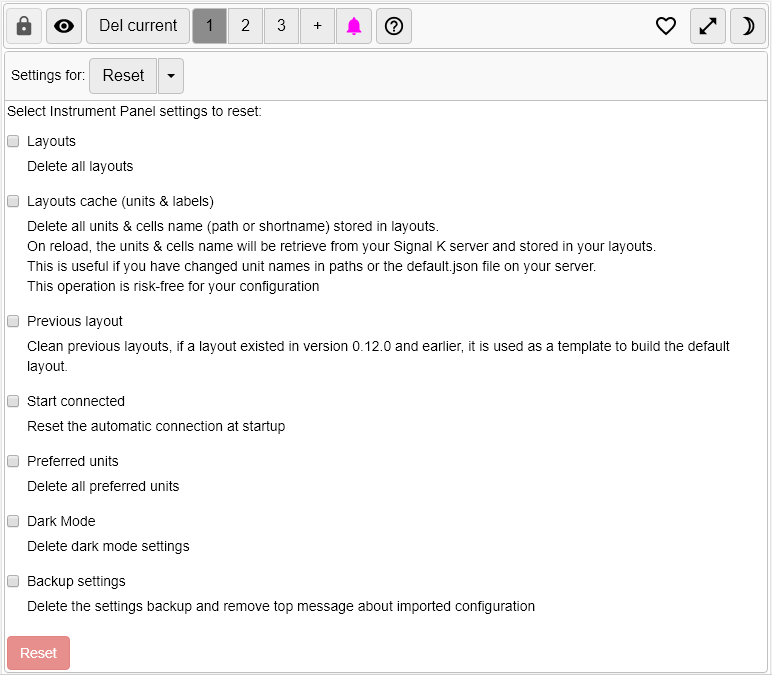
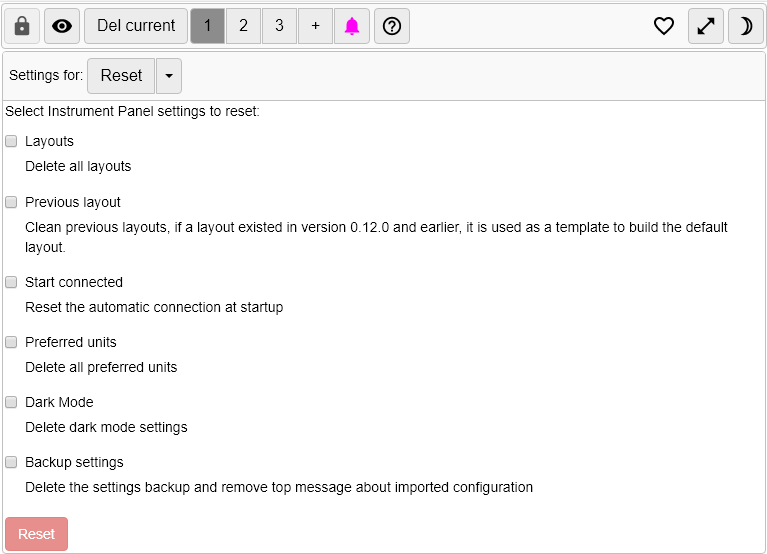
chore: remove meta cache feature

Changed region(s): [[0.0, 0.0, 1.0, 1.0]]

diff --git a/lib/ui/widgets/universal.js b/lib/ui/widgets/universal.js
@@ -17,7 +17,6 @@ class ZoneModeSettings extends React.Component {
     super(props);
     this.state = {
       zoneMode: props.props.options.zoneMode || 'local',
-      metaReload: props.props.options.metaReload || false,
       statesColor: (
         typeof props.props.options.statesColor === 'object' &&
         props.props.options.statesColor !== null
@@ -45,15 +44,9 @@ class ZoneModeSettings extends React.Component {
 
   handleInputChange(event) {
     var eventID = event.target.id;
-    if (eventID === 'metaReload') {
-      this.setState({
-        metaReload: event.target.checked
-      }, this.props.props.onSettingsChange(event));
-    } else {
-      this.setState({
-        [eventID]: event.target.value
-      }, this.props.props.onSettingsChange(event));
-    }
+    this.setState({
+      [eventID]: event.target.value
+    }, this.props.props.onSettingsChange(event));
   }
 
   render() {
@@ -109,13 +102,6 @@ class ZoneModeSettings extends React.Component {
               )
             })
           }
-          <tr>
-            <td colSpan="2">
-              <Checkbox key={this.props.props.id + "metaReload"} id="metaReload" style={{marginLeft: 10, marginTop: 10}} checked={this.state.metaReload} onChange={this.handleInputChange} >
-                Zone reload
-              </Checkbox>
-            </td>
-          </tr>
           </React.Fragment>
       }
       </React.Fragment>
@@ -229,17 +215,12 @@ Widget.prototype.getSettingsElement = function() {
       var value = '';
       if (eventID === 'zoneMode' || eventID === 'statesColor') {
         value = event.target.value;
-      } else if (eventID === 'metaReload') {
-        value = event.target.checked;
       } else {
         value = Number(event.target.value);
       }
       that.options[eventID] = value;
       that.settingsStream.push({[eventID]: value});
       that.instrumentPanel.persist();
-      if (eventID === 'metaReload') {
-        that.instrumentPanel.setReloadRequired();
-      }
     }
   });
 }

diff --git a/lib/ui/settings/resetsettings.js b/lib/ui/settings/resetsettings.js
@@ -24,10 +24,6 @@ import {
 
 var menuSettings = {
   [layoutsKeyName]: {title: 'Layouts', help: 'Delete all layouts'},
-  NOKEY_flushCache: {title: 'Layouts cache (units & labels)', help: 'Delete all units & cells name (path or shortname) stored in layouts.\n\
-On reload, the units & cells name will be retrieve from your Signal K server and stored in your layouts.\n\
-This is useful if you have changed unit names in paths or the default.json file on your server.\n\
-This operation is risk-free for your configuration'},
   [old_layoutKeyName]: {title: 'Previous layout', help: 'Clean previous layouts, if a layout existed in version 0.12.0 and earlier, it is used as a template to build the default layout.'},
   [preferredUnitsKeyName]: {title: 'Preferred units', help: 'Delete all preferred units'},
   [colorSchemeKeyName]: {title: 'Dark Mode', help: 'Delete dark mode settings'},
@@ -58,9 +54,6 @@ export class ResetComponent extends React.Component {
     this.doReset = this.doReset.bind(this);
     this.doCancel = this.doCancel.bind(this);
     this.state = {submitDisable: true};
-    if (typeof this.props.instrumentPanel === 'undefined') {
-      delete menuSettings.NOKEY_flushCache;
-    }
   }
 
   handleChange(e) {
@@ -92,9 +85,6 @@ export class ResetComponent extends React.Component {
     removeKeysByName(keysToDelete);
     if (typeof this.props.instrumentPanel !== 'undefined') {
       var reloadParams = this.props.instrumentPanel.getReloadParams();
-      if (this.state['NOKEY_flushCache'] === true) {
-        reloadParams['flushCache'] = 'true';
-      }
       reloadWithParams(reloadParams);
     } else {
         reloadWithParams({layout: getLayoutName()})

diff --git a/lib/ui/widgets/basewidget.js b/lib/ui/widgets/basewidget.js
@@ -123,13 +123,7 @@ BaseWidget.prototype.updateUnitData = function(widget, updateOptions = {setUnit:
   if (typeof updateOptions.setUnit === 'undefined') {updateOptions.setUnit = true}
   if (typeof updateOptions.setStream === 'undefined') {updateOptions.setStream = true}
   if (typeof updateOptions.setLabel === 'undefined') {updateOptions.setLabel = true}
-
-  if (!widget.instrumentPanel.flushCache) {
-    if ((typeof widget.options.label !== 'undefined')&&(typeof widget.options.unit !== 'undefined')) {
-      widget.instrumentPanel.schemadata.addMetaInCache(widget.options.path, {'displayName': widget.options.label, 'units': widget.options.unit})
-    }
-  }
-  widget.instrumentPanel.schemadata.getMetaForVesselPath(widget.options.path, widget.options.metaReload)
+  widget.instrumentPanel.schemadata.getMetaForVesselPath(widget.options.path, false)
   .then(meta => {
 /*
 Retained to maintain compatibility with previous versions.
@@ -172,10 +166,6 @@ The automatic conversion'rad' => 'deg' is now done by convertTo = 'deg'
     if (typeof meta.displayScale === 'object') {
       widget.options.minValue = meta.displayScale.lower;
       widget.options.maxValue = meta.displayScale.upper;
-    }
-
-    if (widget.options.metaReload === true) {
-      widget.options.metaReload = false;
     }
 
     if (orgOptions !== JSON.stringify(widget.options)) {

diff --git a/lib/ui/instrumentpanel.js b/lib/ui/instrumentpanel.js
@@ -110,7 +110,6 @@ function newPage() {
 }
 
 export default function InstrumentPanel(streamBundle) {
-  this.flushCache = false;
   this.backupSettings = false;
   this.streamBundle = streamBundle;
   this.currentPage = 0;
@@ -453,9 +452,6 @@ InstrumentPanel.prototype.connected = function() {
     port: this.SignalkClient.get('port'),
     tls: this.SignalkClient.get('useTLS')
   });
-  if (getUrlParameter("flushCache")) {
-    this.flushCache = true;
-  }
   this.layoutName = getLayoutName();
   this.setWidgetData(retrieveGrid(this.SignalkClient.get('hostname'), this.SignalkClient.get('port'), this.layoutName));
 }

diff --git a/lib/help/help.md b/lib/help/help.md
@@ -492,11 +492,6 @@ ___
 In this screen, you can clear settings stored in local storage browser.  
 This settings are :  
 - Layouts: Delete all layouts.
-- Layouts cache (units & labels).  
-Delete all units & cells name (path or shortname) stored in layouts.  
-On reload, the units & cells name will be retrieve from your Signal K server and stored in your layouts.  
-This is useful if you have changed unit names in paths or the default.json file on your server.  
-This operation is risk-free for your configuration.  
 - Previous layout: Clean previous layouts, if a layout existed in version 0.12.0 and earlier, it is used as a template to build the default layout.
 - Start connected: Reset the automatic connection at startup.
 - Preferred units: Delete all preferred units.
@@ -685,18 +680,6 @@ InstrumentPanel stores some of its settings in the browser's local storage.
 In case you have invalid stuff displayed, you can reset it
  by adding the following query parameter **?reset=true** to the url.  
 If you only want to reset a few parameters, use the GUI instead:  
- See [Reset settings screen](#2_3_4)  
-  
-Units and labels are also stored in the browser's local storage and
- are fetched from the Signal K server only during startup.  
-If you change a unit or a display label on the server,
- you can clear the cache without destroying your layout
- by modifying the url with the following query parameter  
- **?flushCache=true**  
- you can also use a dedicated menu in GUI:  
- Click on ![settings](./help/settings-icon.png) button  
- Then select settings for:**Reset Instrument Panel**  
- Check the box **Layouts cache (units & labels)**  
  See [Reset settings screen](#2_3_4)  
   
 If you see **ERROR in unit retrieval** on the upper of a widget, there is a problem to contact your Signal K server.  

diff --git a/README.md b/README.md
@@ -13,9 +13,6 @@ Trouble?
 First consult the online help, link above or click on **?** icon inside the GUI.  
 InstrumentPanel stores some of the settings in the browser's localstorage. In case there is some garbage there you can
 get it cleared by using a url with query parameter `?reset=true`.  
-The units and labels are also stored in the browser's localstorage and fetched from the signalK's server only the first time.
-If you change a unit or a display label on the server, you can clear the cache without destroying your layout by using a url with query parameter  `?flushCache=true`.  
-You can also clear the cache using the dedicated menu in the GUI
 
 For iOS user:
 =============
